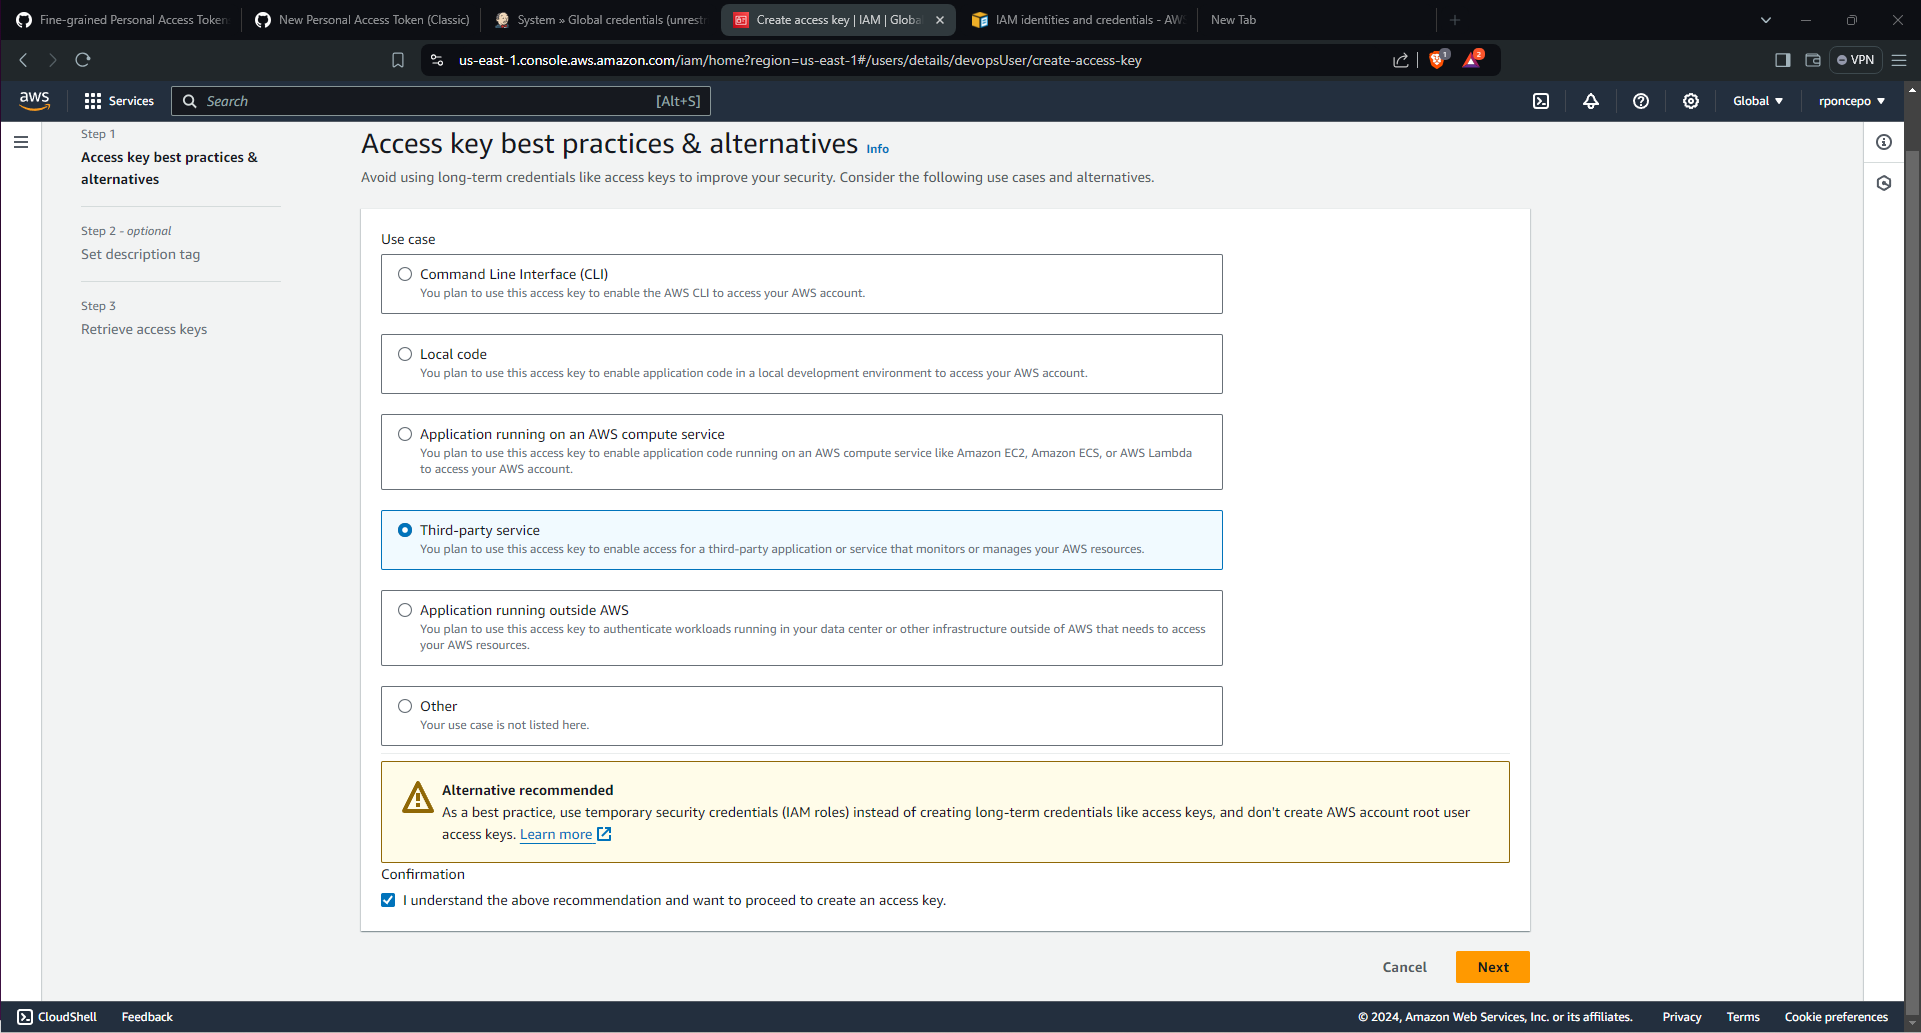
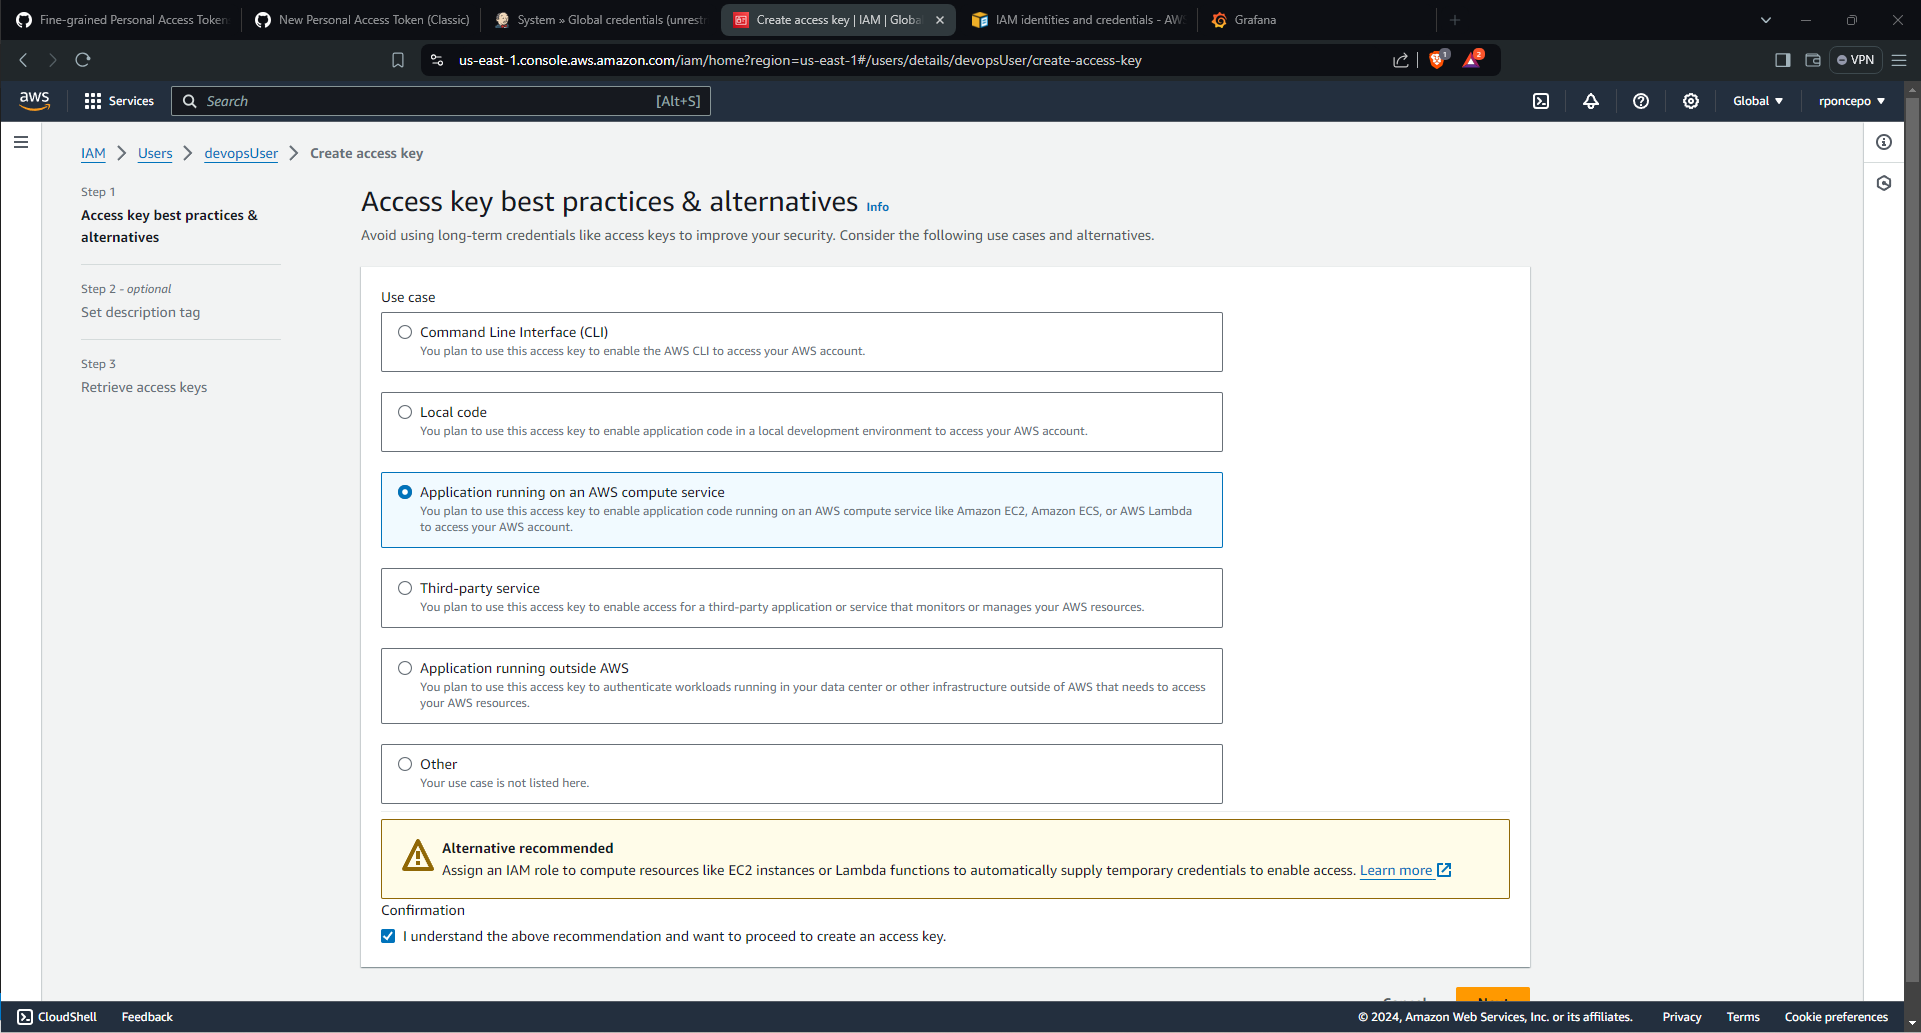
Readme updated for Grafana id/pw credentials

diff --git a/Readme.md b/Readme.md
@@ -868,7 +868,7 @@ environment {
     ![[./screenshots/C09_AWS_clickSecurityCredentials.png]]  
    - Click on `Create access key`.
     ![[./screenshots/C10_AWS_clickCreateAccessKey.png]]  
-   - Select "Third-party Service" and Confirm that you understand the risks. Then click "Next"
+   - Select "Application Running on an AWS Compute Service" and Confirm that you understand the risks. Then click "Next"
     ![[./screenshots/C11_AWS_accessKeyCreation.png]]  
    - Write a description, if desired
     ![[./screenshots/C12_AWS_accessKeyDescription.png]]  
@@ -910,28 +910,39 @@ withAWS(credentials: 'aws-credentials', region: "${AWS_REGION}") {
 
 1. **Log in to Grafana**:
 
-   - Navigate to your Grafana instance.
+   - Navigate to your Grafana instance, on localhost:8080. If this is your first time or you are not logged in, you will see the following screen:
+   ![[./screenshots/D00_Grafana_landingScreen.png]] 
+
 2. **Get Admin Credentials**:
 
-   - Use the default admin credentials (`admin` / `admin`) or the ones you have set during Grafana setup.
+   - Use the default admin credentials (`admin` / `admin`) or the ones you have set during Grafana setup. You will immediately be prompted to change password.
+    ![[./screenshots/D01_Grafana_newPassword.png]] 
    - Change the password if you are using the default credentials for the first time.
+   - You will land at the Grafana homepage.
+    ![[./screenshots/D02_Grafana_homePage.png]]  
+
 
 #### Store Grafana Admin Credentials in Jenkins
 
 1. **Log in to Jenkins**:
 
-   - Navigate to your Jenkins instance.
+   - Navigate to your Jenkins instance. No change from above.
+
 2. **Add the Grafana Admin Credentials to Jenkins**:
 
-   - Go to `Manage Jenkins` > `Manage Credentials`.
-   - Select a domain (e.g., `Global`).
-   - Click on `Add Credentials`.
+   - Go to `Manage Jenkins` > `Manage Credentials`. (See above for directions/screenshots)
+   - Select a domain (e.g., `Global`). (See above for directions/screenshots)
+   - Click on `Add Credentials`. (See above for directions/screenshots)
    - Select `Username with password` as the kind.
    - Enter `admin` (or your admin username) in the `Username` field.
    - Enter the admin password in the `Password` field.
    - Give it an ID `grafana-admin-pass`.
    - Click `OK`.
+   ![[./screenshots/D03_Grafana_addToJenkins.png]] 
+
 3. Using Grafana Admin Credentials
+
+- We did this to use Grafana via Jenkins, as shown below:
 
 ```groovy
 stage('Generate Grafana API Key') {
